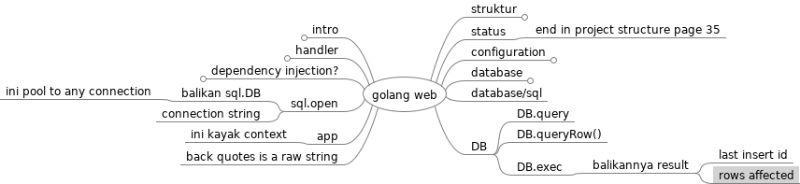
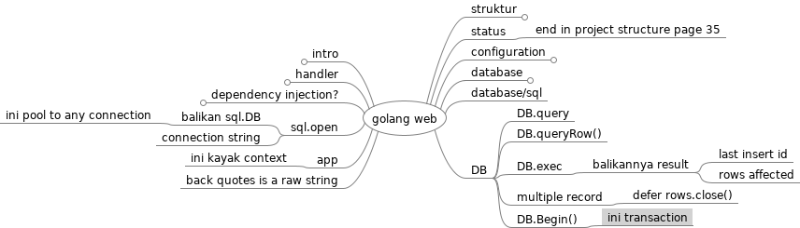
update lecture notes

Changed region(s): [[0.0, 0.0272, 1.0, 1.0], [0.5312, 0.625, 0.5625, 0.7337]]

diff --git a/competitive programming.mm b/competitive programming.mm
@@ -1,17 +1,31 @@
 <map version="1.1.0">
 <!-- To view this file, download free mind mapping software FreeMind from http://freemind.sourceforge.net -->
 <node CREATED="1646040817660" ID="ID_1566415613" MODIFIED="1646040829106" TEXT="competitive programming">
-<node CREATED="1646040829377" FOLDED="true" ID="ID_839731922" MODIFIED="1646104453527" POSITION="right" TEXT="graph">
-<node CREATED="1646040831781" ID="ID_493688574" MODIFIED="1646040833045" TEXT="tree">
+<node CREATED="1646040829377" ID="ID_839731922" MODIFIED="1648264250165" POSITION="right" TEXT="graph">
+<node CREATED="1646040831781" FOLDED="true" ID="ID_493688574" MODIFIED="1648484814172" TEXT="tree">
 <node CREATED="1646040833327" ID="ID_1104164520" MODIFIED="1646040841278" TEXT="dfs(node, prev)"/>
 <node CREATED="1646040844826" ID="ID_451241589" MODIFIED="1646040854493" TEXT="if visited == number node"/>
 </node>
+<node CREATED="1648264253438" FOLDED="true" ID="ID_1717883194" MODIFIED="1648484811931" TEXT="clone graph">
+<node CREATED="1648264261120" ID="ID_302405731" MODIFIED="1648264266359" TEXT="oldToNew">
+<node CREATED="1648264266607" ID="ID_427805908" MODIFIED="1648264269007" TEXT="ini map"/>
 </node>
-<node CREATED="1646042768605" FOLDED="true" ID="ID_1626162585" MODIFIED="1646104455073" POSITION="left" TEXT="interval">
-<node CREATED="1646042771777" FOLDED="true" ID="ID_1634495326" MODIFIED="1646099608514" TEXT="merge interval">
+<node CREATED="1648264269998" ID="ID_777956949" MODIFIED="1648264272843" TEXT="bikin dfs"/>
+</node>
+<node CREATED="1648484816551" ID="ID_267669371" MODIFIED="1648484819216" TEXT="island">
+<node CREATED="1648484819672" ID="ID_1784946610" MODIFIED="1648484829173" TEXT="col, row and grid"/>
+<node CREATED="1648484973655" ID="ID_216227806" MODIFIED="1648484976341" TEXT="bfs">
+<node CREATED="1648484976600" ID="ID_469285532" MODIFIED="1648484982717" TEXT="collections.deque">
+<node CREATED="1648485041786" ID="ID_1636443325" MODIFIED="1648485045584" TEXT="popleft"/>
+</node>
+</node>
+</node>
+</node>
+<node CREATED="1646042768605" FOLDED="true" ID="ID_1626162585" MODIFIED="1648264247545" POSITION="left" TEXT="interval">
+<node CREATED="1646042771777" FOLDED="true" ID="ID_1634495326" MODIFIED="1648243096897" TEXT="merge interval">
 <node CREATED="1646042797813" ID="ID_1076706200" MODIFIED="1646042802348" TEXT="min on left"/>
 <node CREATED="1646042802615" ID="ID_738480467" MODIFIED="1646042806932" TEXT="max on right"/>
-<node CREATED="1646044007304" FOLDED="true" ID="ID_1320464022" MODIFIED="1646056431598" TEXT="kondisi">
+<node CREATED="1646044007304" FOLDED="true" ID="ID_1320464022" MODIFIED="1648243094294" TEXT="kondisi">
 <node CREATED="1646044010577" ID="ID_1647787940" MODIFIED="1646044013886" TEXT="di kiri"/>
 <node CREATED="1646044014127" ID="ID_731904336" MODIFIED="1646044016250" TEXT="di kanan"/>
 <node CREATED="1646044016490" ID="ID_554607601" MODIFIED="1646044018435" TEXT="merge"/>
@@ -84,7 +98,7 @@
 <node CREATED="1646236107595" ID="ID_686902376" MODIFIED="1646236111699" TEXT="merge both"/>
 </node>
 </node>
-<node CREATED="1646319054999" FOLDED="true" ID="ID_739850153" MODIFIED="1647475997318" POSITION="left" TEXT="matrix">
+<node CREATED="1646319054999" FOLDED="true" ID="ID_739850153" MODIFIED="1648243071377" POSITION="left" TEXT="matrix">
 <node CREATED="1646319057257" FOLDED="true" ID="ID_71211213" MODIFIED="1646325436873" TEXT="spiral">
 <node CREATED="1646319061462" ID="ID_820041629" MODIFIED="1646319066376" TEXT="left boundary"/>
 <node CREATED="1646319066617" ID="ID_1354185240" MODIFIED="1646319070662" TEXT="right boundary"/>
@@ -106,7 +120,7 @@
 <node CREATED="1646325451481" ID="ID_560697892" MODIFIED="1646325457703" TEXT="check which moves"/>
 </node>
 </node>
-<node CREATED="1646401636405" FOLDED="true" ID="ID_548429591" MODIFIED="1646644219942" POSITION="right" TEXT="string">
+<node CREATED="1646401636405" FOLDED="true" ID="ID_548429591" MODIFIED="1648243068338" POSITION="right" TEXT="string">
 <node CREATED="1646401638604" FOLDED="true" ID="ID_225713361" MODIFIED="1646436586306" TEXT="minimum window substring">
 <node CREATED="1646401656419" ID="ID_571313667" MODIFIED="1646401664103" TEXT="have, T"/>
 <node CREATED="1646401752332" ID="ID_789981627" MODIFIED="1646401756568" TEXT="res , resLen"/>
@@ -283,22 +297,38 @@
 <node CREATED="1647600466791" ID="ID_1653404495" MODIFIED="1647600467800" TEXT="and"/>
 </node>
 </node>
-<node CREATED="1647595121152" ID="ID_1403661801" MODIFIED="1647595126121" POSITION="left" TEXT="counting bits">
+<node CREATED="1647595121152" FOLDED="true" ID="ID_1403661801" MODIFIED="1648243055787" POSITION="left" TEXT="counting bits">
 <node CREATED="1647595127234" ID="ID_1795400822" MODIFIED="1647595130597" TEXT="di tiap dp"/>
 </node>
-<node CREATED="1647600651387" ID="ID_1025523125" MODIFIED="1647600656039" POSITION="right" TEXT="dynamic programming">
+<node CREATED="1647600651387" FOLDED="true" ID="ID_1025523125" MODIFIED="1648243044597" POSITION="right" TEXT="dynamic programming">
 <node CREATED="1647600656304" ID="ID_1974024964" MODIFIED="1647600662738" TEXT="coba bikin decision tree"/>
 <node CREATED="1647601284555" FOLDED="true" ID="ID_1631718421" MODIFIED="1647865878586" TEXT="tangga">
 <node CREATED="1647601287224" FOLDED="true" ID="ID_613786584" MODIFIED="1647865876823" TEXT="mulai dari hasil akhir">
 <node CREATED="1647601292184" ID="ID_1320790711" MODIFIED="1647601297397" TEXT="terus mundur kebelakang"/>
 </node>
 </node>
-<node CREATED="1647865881297" ID="ID_194356346" MODIFIED="1647865886396" TEXT="word problem">
+<node CREATED="1647865881297" FOLDED="true" ID="ID_194356346" MODIFIED="1648072298138" TEXT="word problem">
 <node CREATED="1647865886836" ID="ID_1393005993" MODIFIED="1647870870595" TEXT="mulai dari akhir bos"/>
 <node CREATED="1647870871169" ID="ID_174124848" MODIFIED="1647870874964" TEXT="bikin tu dp"/>
 <node CREATED="1647870875590" ID="ID_700316805" MODIFIED="1647870883767" TEXT="kalo umpama, ada yg cocok">
 <node CREATED="1647870884234" ID="ID_1775725141" MODIFIED="1647870898589" TEXT="cek hasil akhirnya kosong apa engga"/>
 </node>
+</node>
+<node CREATED="1648072301389" ID="ID_1345307574" MODIFIED="1648072306009" TEXT="decode ways">
+<node CREATED="1648072306377" ID="ID_1571748723" MODIFIED="1648072314777" TEXT="mulai dari belakang dulu"/>
+<node CREATED="1648072315039" ID="ID_1515805950" MODIFIED="1648072329656" TEXT="bisa di lihat sebagai i atau i+i-2"/>
+<node CREATED="1648072331126" ID="ID_1569896767" MODIFIED="1648072345702" TEXT="ways[i] = ways[i-1] + ways[i-2]"/>
+<node CREATED="1648072349927" FOLDED="true" ID="ID_893368244" MODIFIED="1648074543733" TEXT="ada 0 jadi rada2 susah">
+<node CREATED="1648072362036" ID="ID_748187511" MODIFIED="1648072364377" TEXT="casenya">
+<node CREATED="1648072365071" ID="ID_839241449" MODIFIED="1648072411798" TEXT="i-1 itu 1 atau 2">
+<node CREATED="1648072426268" ID="ID_794523684" MODIFIED="1648072431267" TEXT="dp[i-2]"/>
+</node>
+<node CREATED="1648072412475" ID="ID_28319204" MODIFIED="1648072421505" TEXT="i-1 itu &gt; 2">
+<node CREATED="1648072422309" ID="ID_279939861" MODIFIED="1648072425178" TEXT="balikin 0"/>
+</node>
+</node>
+</node>
+<node CREATED="1648072481967" ID="ID_1483663474" MODIFIED="1648072492263" TEXT="mulai dari last index, slowly backwards"/>
 </node>
 </node>
 </node>

diff --git a/golang web.mm b/golang web.mm
@@ -164,6 +164,12 @@
 <node CREATED="1647451148715" ID="ID_1619435105" MODIFIED="1647451151826" TEXT="rows affected"/>
 </node>
 </node>
+<node CREATED="1648548789229" ID="ID_587743286" MODIFIED="1648548794499" TEXT="multiple record">
+<node CREATED="1648548794727" ID="ID_1892502977" MODIFIED="1648548799482" TEXT="defer rows.close()"/>
+</node>
+<node CREATED="1648549015891" ID="ID_224513413" MODIFIED="1648549019991" TEXT="DB.Begin()">
+<node CREATED="1648549020262" ID="ID_1226156335" MODIFIED="1648549023696" TEXT="ini transaction"/>
+</node>
 </node>
 <node CREATED="1647451074530" ID="ID_1914268575" MODIFIED="1647451081185" POSITION="left" TEXT="back quotes is a raw string"/>
 </node>
